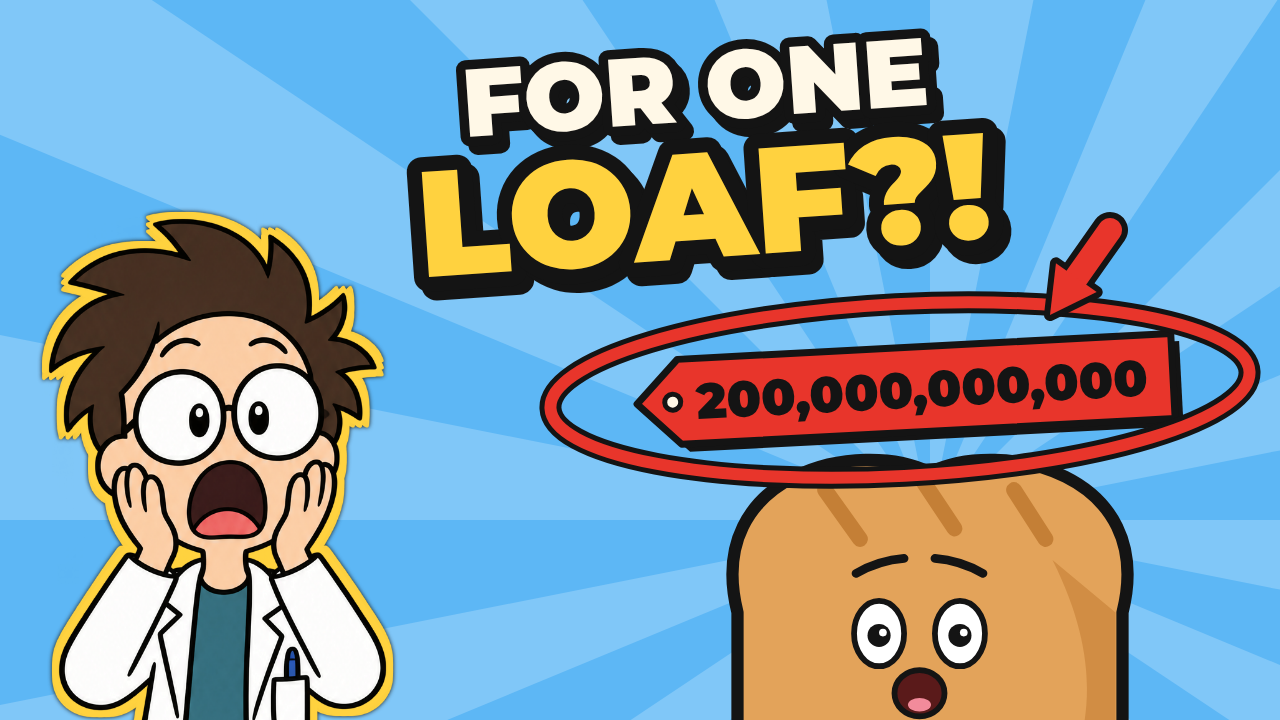
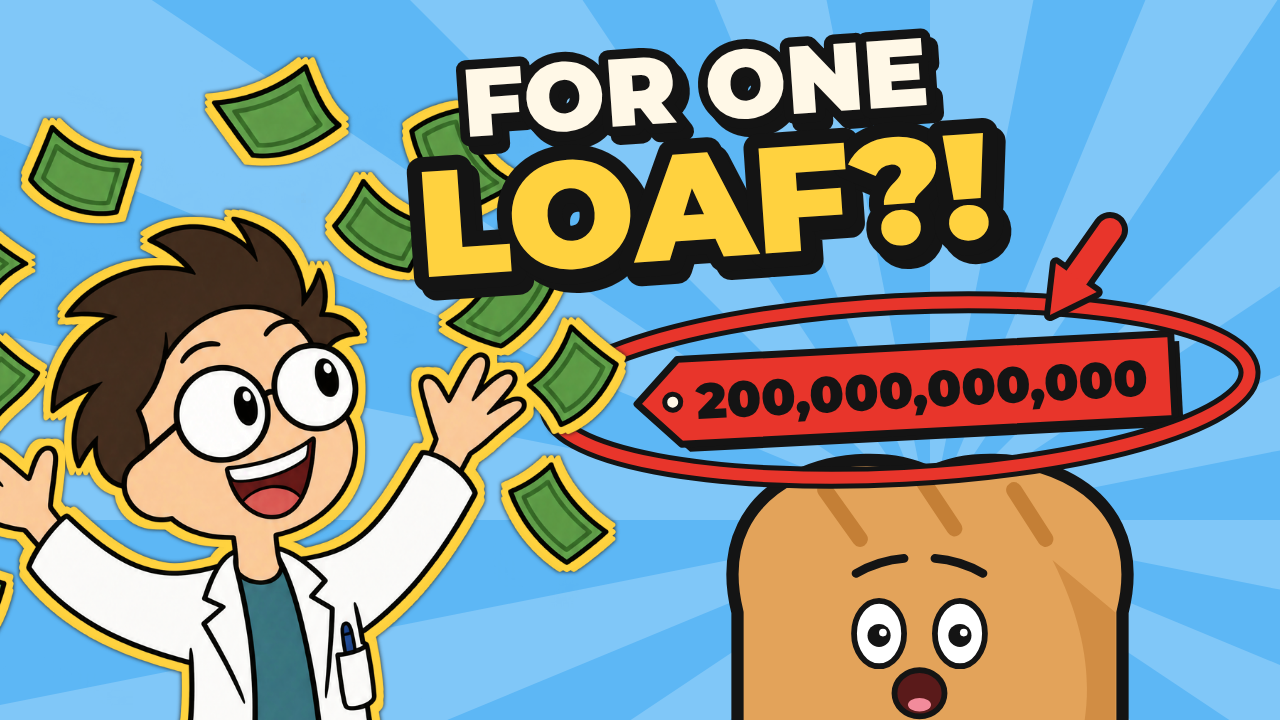
Money long-form thumbnails: option C and new scientist reactions (cash, hot, nervous)
Claude-Session: https://claude.ai/code/session_015xk9XDSoC2XGKGSmzAa8PH

Changed region(s): [[0.0, 0.1222, 0.5, 1.0], [0.1562, 0.0611, 0.2812, 0.2444]]

diff --git a/video/src/thumb/MoneyThumbs.tsx b/video/src/thumb/MoneyThumbs.tsx
@@ -37,13 +37,43 @@ export const MoneyThumbA: React.FC = () => {
         <Tag x={905} y={390} text="200,000,000,000" size={50} bg={C.red} rot={-3} />
         <Ring cx={900} cy={390} rx={350} ry={86} rot={-3} />
       </svg>
-      <BigSci pose="shocked" x={215} y={400} headR={128} />
+      <BigSci pose="cash" x={215} y={400} headR={128} />
       <svg width={1280} height={720} viewBox="0 0 1280 720" style={{position: 'absolute'}}>
         <g transform="rotate(-4 640 160)">
           <BigText x={700} y={125} text="FOR ONE" size={96} />
           <BigText x={700} y={262} text="LOAF?!" size={150} fill={C.yellow} />
         </g>
         <Arrow x1={1110} y1={230} x2={1050} y2={315} color={C.red} w={24} head={52} />
+      </svg>
+    </AbsoluteFill>
+  );
+};
+
+// C: "PRICES x2 EVERY DAY?!" - a loaf whose price tags double $1 -> $128 (Zimbabwe, Nov 2008: about every 25 hours).
+export const MoneyThumbC: React.FC = () => {
+  useFonts();
+  const tags: Array<[string, number, number, number]> = [
+    ['$1', 560, 620, 0.75],
+    ['$4', 680, 515, 0.85],
+    ['$16', 820, 410, 0.95],
+    ['$128', 1060, 290, 1.25],
+  ];
+  return (
+    <AbsoluteFill>
+      <svg width={1280} height={720} viewBox="0 0 1280 720" style={{position: 'absolute'}}>
+        <Rays cx={960} cy={560} />
+        <Loaf x={1085} y={730} s={1.3} t={0.4} mood="scared" />
+        {tags.map(([txt, x, y, s], i) => (
+          <Tag key={i} x={x} y={y} text={txt} size={58} s={s} rot={-6} bg={i === 3 ? C.red : C.yellow} />
+        ))}
+        <Ring cx={1060} cy={290} rx={175} ry={90} rot={-6} />
+      </svg>
+      <BigSci pose="nervous" x={215} y={400} headR={128} />
+      <svg width={1280} height={720} viewBox="0 0 1280 720" style={{position: 'absolute'}}>
+        <g transform="rotate(-4 640 120)">
+          <BigText x={720} y={120} text="PRICES x2" size={110} fill={C.yellow} />
+          <BigText x={720} y={215} text="EVERY DAY?!" size={80} />
+        </g>
       </svg>
     </AbsoluteFill>
   );
@@ -62,7 +92,7 @@ export const MoneyThumbB: React.FC = () => {
         </g>
         <Ring cx={890} cy={500} rx={335} ry={205} rot={-8} />
       </svg>
-      <BigSci pose="shocked" x={215} y={400} headR={128} />
+      <BigSci pose="hot" x={215} y={400} headR={128} />
       <svg width={1280} height={720} viewBox="0 0 1280 720" style={{position: 'absolute'}}>
         <g transform="rotate(-4 640 140)">
           <BigText x={720} y={135} text="100 TRILLION" size={108} fill={C.yellow} />

diff --git a/video/src/Root.tsx b/video/src/Root.tsx
@@ -2,7 +2,7 @@ import {Composition, Still} from 'remotion';
 import {SunThumbA, SunThumbB, SunThumbC} from './thumb/SunThumbs';
 import {WoodpeckerThumb} from './thumb/WoodpeckerThumb';
 import {IcebergThumbA, IcebergThumbB} from './thumb/IcebergThumbs';
-import {MoneyThumbA, MoneyThumbB} from './thumb/MoneyThumbs';
+import {MoneyThumbA, MoneyThumbB, MoneyThumbC} from './thumb/MoneyThumbs';
 import {IcebergShort, DURATION_FRAMES} from './iceberg/Main';
 import {FPS} from './iceberg/timing';
 import {TrashSun, DURATION_FRAMES as SUN_FRAMES} from './sun/Main';
@@ -28,5 +28,6 @@ export const Root = () => (
     <Composition id="MoneyLong" component={MoneyLong} durationInFrames={MONEYL_FRAMES} fps={60} width={1920} height={1080} />
     <Still id="MoneyThumbA" component={MoneyThumbA} width={1280} height={720} />
     <Still id="MoneyThumbB" component={MoneyThumbB} width={1280} height={720} />
+    <Still id="MoneyThumbC" component={MoneyThumbC} width={1280} height={720} />
   </>
 );

diff --git a/.claude/skills/lab-logic/references/thumbnails.md b/.claude/skills/lab-logic/references/thumbnails.md
@@ -55,3 +55,11 @@ Frame 0 of the Short = the cover, built as a component that is both the first sc
   `IcebergThumbA.png`, `IcebergThumbB.png`.
 - Sources: `video/src/thumb/SunThumbs.tsx` (exports Rays, BigSci, RedCircle, useFonts), `WoodpeckerThumb.tsx`,
   `IcebergThumbs.tsx`.
+
+### Vary the scientist's reaction
+The user noticed the same hands-on-cheeks "shocked" face on consecutive thumbnails. Rotate reactions between
+episodes (cash = gleeful, nervous = sweaty grimace, hot = red-faced, dizzy, facepalm, thirsty) and note which pose each
+thumbnail used in episodes.md. A dedicated new reaction pose (eyes bulging, pointing at the object, hand in hair) is a
+good next Higgsfield generation when credits allow (the plan ran out on 2026-11-04).
+Money long-form options: A "FOR ONE / LOAF?!" (cash), B "100 TRILLION / DOLLAR NOTE?!" (hot), C "PRICES x2 /
+EVERY DAY?!" (nervous, price tags $1 -> $128).
